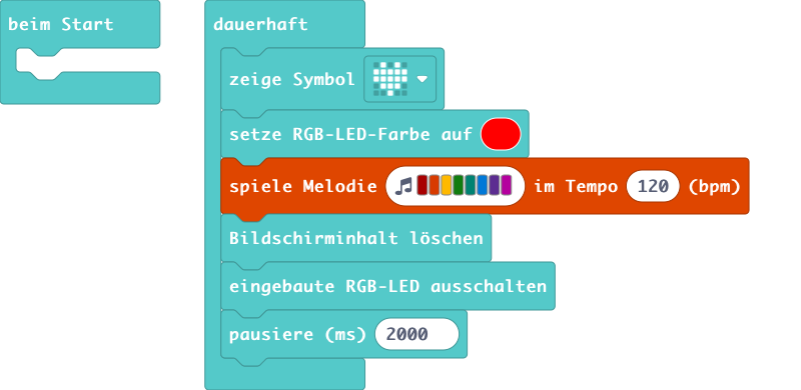
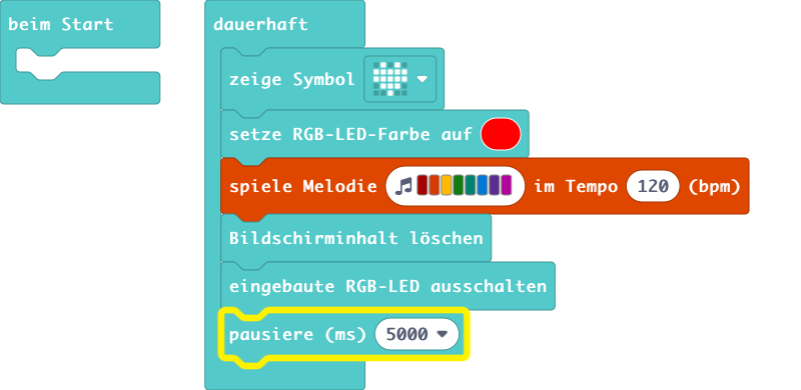
Wait 5 seconds

Changed region(s): [[0.2497, 0.7692, 0.593, 0.9538]]

diff --git a/main.ts b/main.ts
@@ -4,5 +4,5 @@ basic.forever(function () {
     music.playMelody("C5 B A G F E D C ", 120)
     basic.clearScreen()
     basic.turnRgbLedOff()
-    basic.pause(2000)
+    basic.pause(5000)
 })
